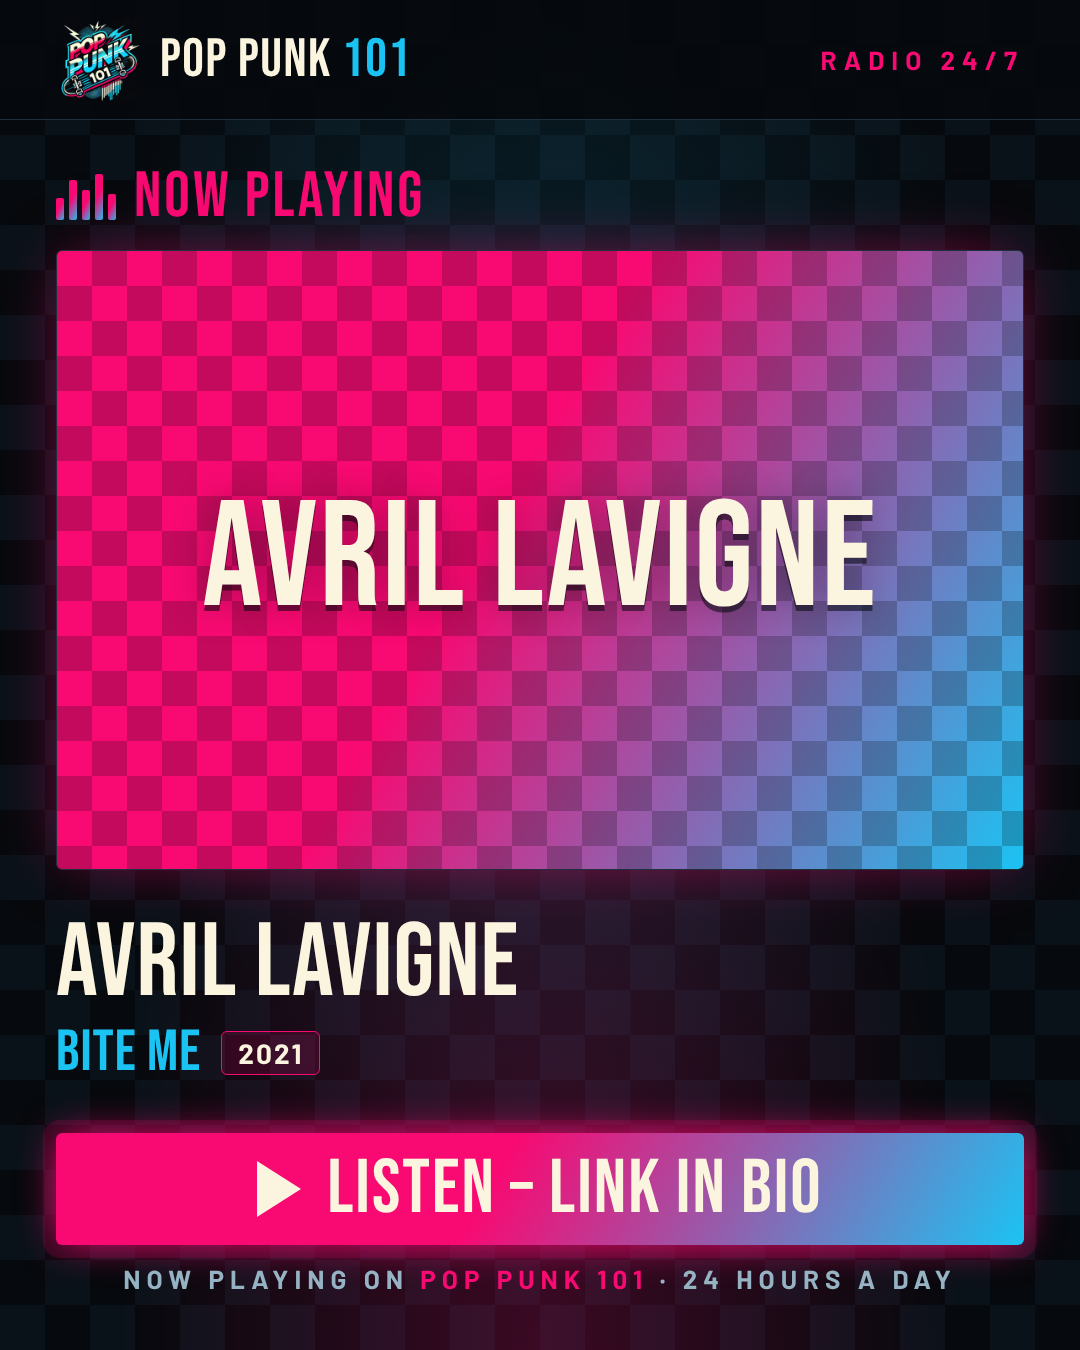
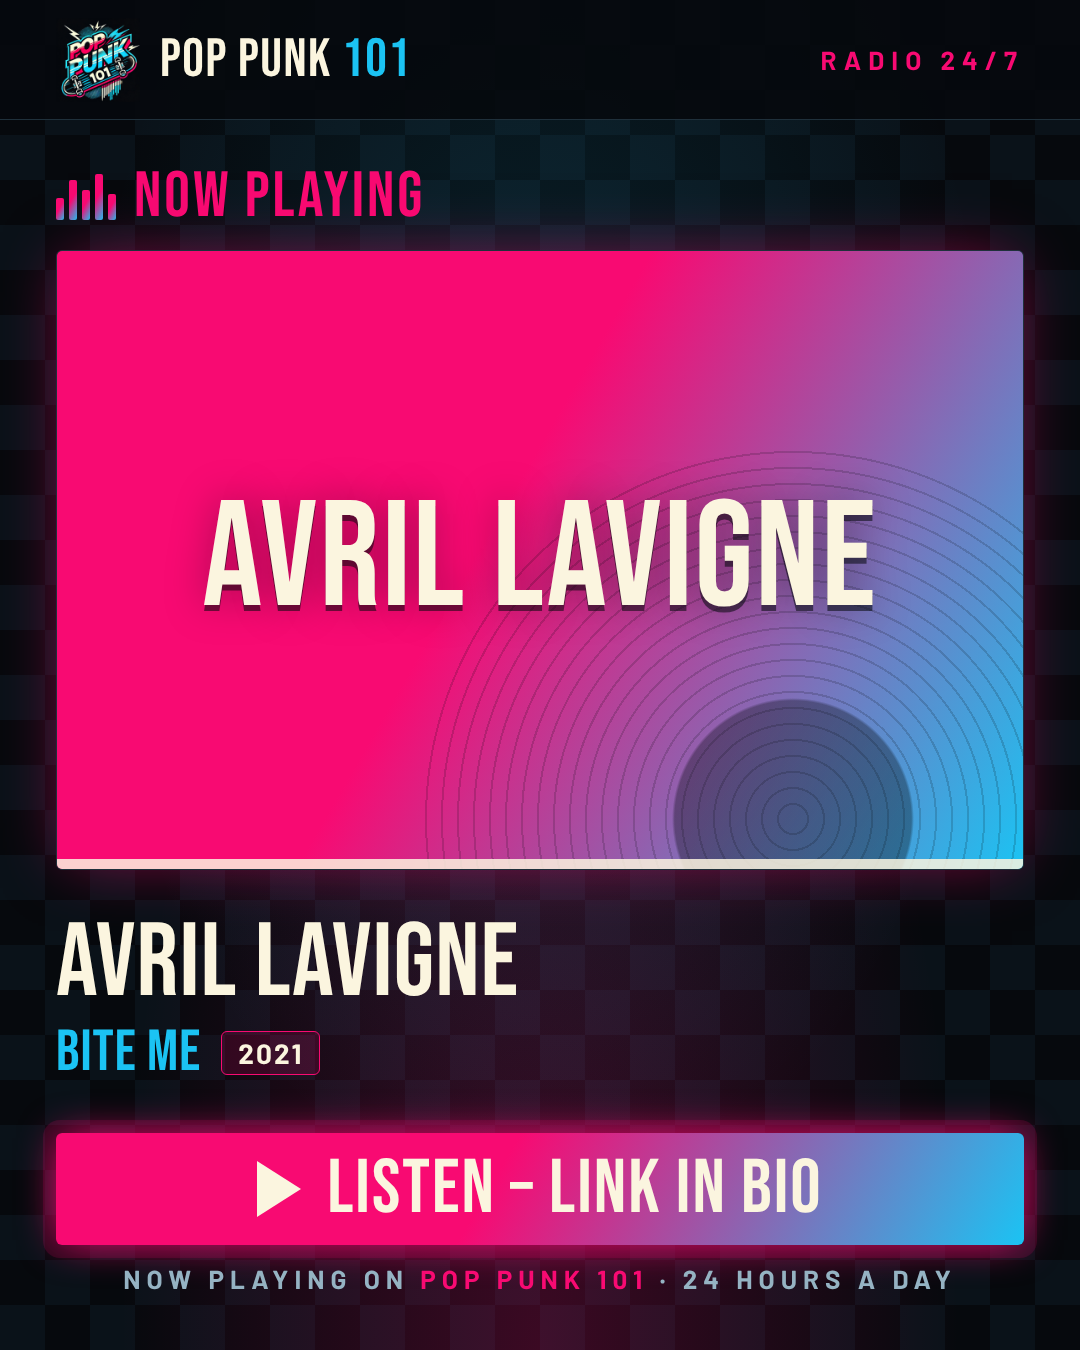
Typo cover: replace checker pattern with vinyl motif
Claude-Session: https://claude.ai/code/session_015DoYfzHyVS2YxZ8rKw18BZ

Changed region(s): [[0.0306, 0.1867, 0.9472, 0.6533]]

diff --git a/tools/template.html b/tools/template.html
@@ -34,7 +34,10 @@ __FONTS__
   .card img.photo{width:100%;height:100%;object-fit:cover}
   .typo{height:100%;display:flex;flex-direction:column;align-items:center;justify-content:center;text-align:center;padding:40px;
         background:var(--gradient-punk);position:relative}
-  .typo:before{content:"";position:absolute;inset:0;background:conic-gradient(rgba(6,9,13,.22) 25%,transparent 0 50%,rgba(6,9,13,.22) 0 75%,transparent 0) 0 0/70px 70px}
+  .typo:before{content:"";position:absolute;width:760px;height:760px;border-radius:50%;right:-150px;bottom:-330px;
+    background:repeating-radial-gradient(circle at center,rgba(6,9,13,.0) 0 14px,rgba(6,9,13,.16) 14px 16px),
+    radial-gradient(circle at center,rgba(6,9,13,.35) 0 22%,transparent 22.5%)}
+  .typo:after{content:"";position:absolute;left:0;right:0;bottom:0;height:10px;background:var(--foreground);opacity:.85}
   .typo span{position:relative;font-family:"Bebas Neue",Impact,sans-serif;text-transform:uppercase;line-height:.92;color:var(--foreground);
              text-shadow:0 6px 0 rgba(6,9,13,.55),0 0 40px rgba(6,9,13,.35);letter-spacing:2px}
   .credit{position:absolute;right:62px;top:878px;font-size:17px;font-weight:500;color:var(--muted)}
